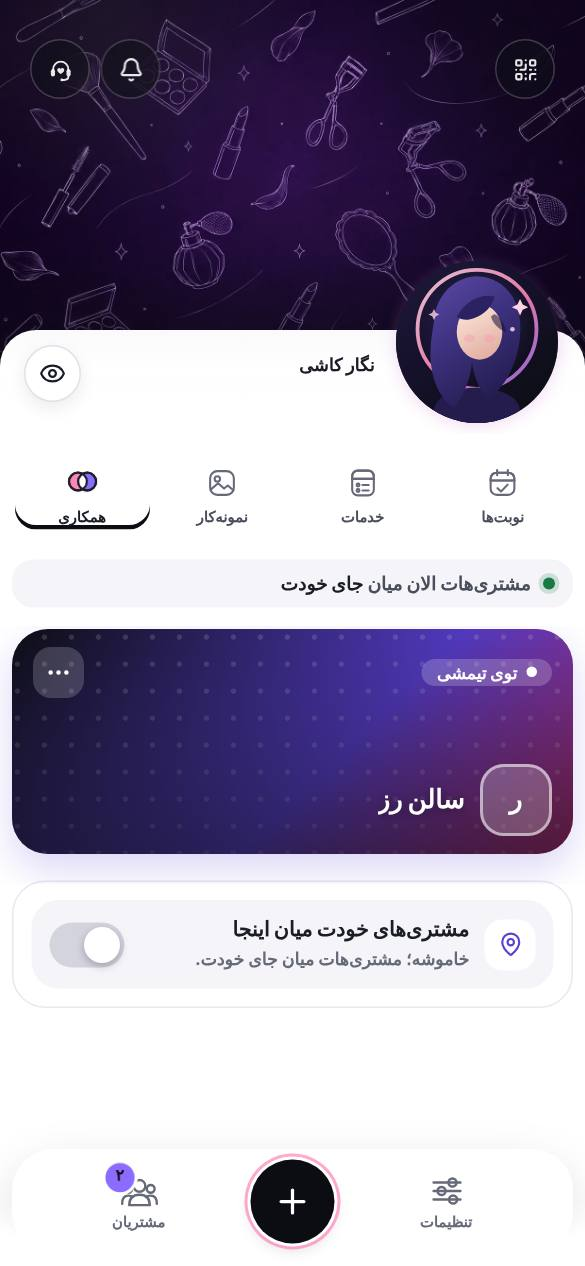
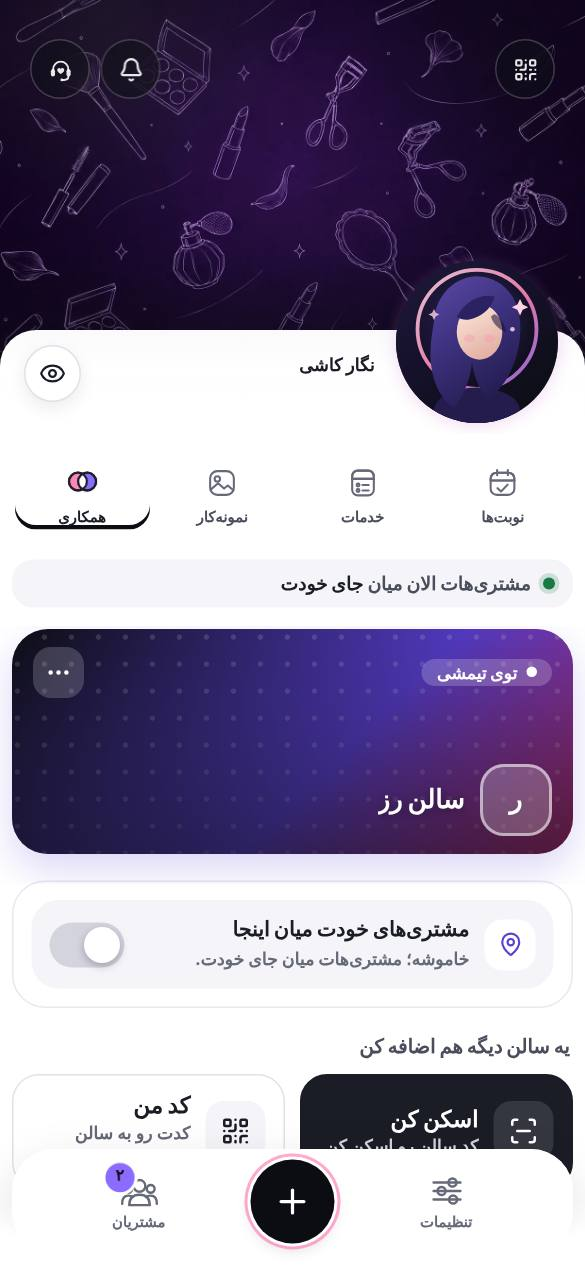
Artist collab tab: keep scan/code under the salon cards to add another salon
Once an artist joined a salon, the scan and my-code buttons disappeared, so
there was no way to add a second salon from the tab. They now stay under the
cards, titled «یه سالن دیگه هم اضافه کن». The code sheet closes when a new
invite or team arrives (counted), not whenever any team exists. Also defines
the connect colour variables for this board, so the dark scan button shows.

Claude-Session: https://claude.ai/code/session_01CZ7upFQ2cL2qc1M85qvN3D

diff --git a/app/features/artist/ArtistCollabBoard.jsx b/app/features/artist/ArtistCollabBoard.jsx
@@ -195,8 +195,9 @@ function SwitchSheet({ target, ask, busy, onSave, onClose }) {
 /**
  * Artist owner — collaboration tab (owner's choice of 2026-10-25: wallet cards). The salons the artist is on the team
  * of and the salons inviting them are cards in one row the artist swipes; under the row, the card in view: its terms,
- * «مشتریهای خودت میان اینجا» (the artist's one workplace at a time) and its rules. No team and no invite: only
- * «اسکن کن» and «کد من».
+ * «مشتریهای خودت میان اینجا» (the artist's one workplace at a time) and its rules. «اسکن کن» and «کد من» stay
+ * under the cards (titled «یه سالن دیگه هم اضافه کن» once on a team), so a second salon can be added; no team and no
+ * invite: only those two.
  */
 export function ArtistCollabBoard({
   artistId,
@@ -233,11 +234,14 @@ export function ArtistCollabBoard({
   useEffect(() => { if (connected) loadWorkplace(); }, [connected, teamKey, loadWorkplace]);
 
   // While the code is on screen, check for the salon's invite so it shows up as soon as they scan; close the code
-  // once it (or a team) arrives.
-  usePolling(() => onChanged?.(), 5000, sheet === "code" && !connected);
+  // once a new invite (or a new team) arrives. Counts, not "any", so an artist already on a team can show it too.
+  usePolling(() => onChanged?.(), 5000, sheet === "code");
+  const arrivals = teams.length + pendingInvites.length;
+  const lastArrivals = useRef(arrivals);
   useEffect(() => {
-    if (connected || pendingInvites.length) setSheet("");
-  }, [connected, pendingInvites.length]);
+    if (arrivals > lastArrivals.current) setSheet("");
+    lastArrivals.current = arrivals;
+  }, [arrivals]);
 
   const cards = [
     ...pendingInvites.map((invite) => ({
@@ -435,21 +439,18 @@ export function ArtistCollabBoard({
         </>
       ) : null}
 
-      {!connected ? (
-        <>
-          <div className="cnScanRow">
-            <button type="button" className="cnScanBtn is-dark" onClick={() => setSheet("scan")}>
-              <span aria-hidden="true"><ScanLine size={20} /></span>
-              <span><b>اسکن کن</b><small>کد سالن رو اسکن کن</small></span>
-            </button>
-            <button type="button" className="cnScanBtn" disabled={!codeUrl} onClick={() => setSheet("code")}>
-              <span aria-hidden="true"><QrCode size={20} /></span>
-              <span><b>کد من</b><small>کدت رو به سالن نشون بده</small></span>
-            </button>
-          </div>
-          {!cards.length ? <Mascot pose="team" size={190} className="clConnMascot" /> : null}
-        </>
-      ) : null}
+      {connected ? <p className="clwAddLead">یه سالن دیگه هم اضافه کن</p> : null}
+      <div className="cnScanRow">
+        <button type="button" className="cnScanBtn is-dark" onClick={() => setSheet("scan")}>
+          <span aria-hidden="true"><ScanLine size={20} /></span>
+          <span><b>اسکن کن</b><small>کد سالن رو اسکن کن</small></span>
+        </button>
+        <button type="button" className="cnScanBtn" disabled={!codeUrl} onClick={() => setSheet("code")}>
+          <span aria-hidden="true"><QrCode size={20} /></span>
+          <span><b>کد من</b><small>کدت رو به سالن نشون بده</small></span>
+        </button>
+      </div>
+      {!cards.length ? <Mascot pose="team" size={190} className="clConnMascot" /> : null}
 
       <SwitchSheet target={switchTo} ask={Boolean(switchTo?.ask)} busy={saving} onSave={saveSwitch} onClose={() => setSwitchTo(null)} />
 

diff --git a/app/styles/features/place.css b/app/styles/features/place.css
@@ -153,3 +153,4 @@
 .clwMove small { color: var(--n-600); font-size: 0.72rem; font-weight: 750; }
 .clwMove .plSwitch[aria-checked="true"] { background: var(--violet-deep); }
 @media (prefers-reduced-motion: reduce) { .clwCard, .clwDots button::before { transition: none; } }
+.clwAddLead { margin: 6px 2px -2px; color: var(--n-700); font-size: 0.82rem; font-weight: 900; }

diff --git a/app/styles/features/connect.css b/app/styles/features/connect.css
@@ -27,7 +27,8 @@
 .qrScanner,
 .cnCodeSheet,
 .cnSheetRoot,
-.clConnBoard {
+.clConnBoard,
+.clwBoard {
   --cn-ink: var(--n-900);
   --cn-muted: var(--n-600);
   --cn-line: var(--n-150);

diff --git a/docs/DECISIONS.md b/docs/DECISIONS.md
@@ -80,3 +80,4 @@ One line each, dated. Claude reads this before asking questions.
 - 2026-10-25: The app keeps saying plainly whether a number has an account (at login and sign-up); the per-number and per-address limits on tries and SMS stay what stops anyone from testing numbers in bulk.
 - 2026-10-25: Sign-up always needs the SMS code whenever SMS works (owner: otherwise anyone can sign up with a number that isn't theirs); the separate switch FRFRO_OTP_REQUIRED=1 is gone, only test setups turn it off with FRFRO_OTP_REQUIRED=0. Accounts made earlier without a code keep working, but bookings a salon made under that number are not tied to them until they prove the number with a code.
 - 2026-10-26: «وقتش شده» confirmation moves off the home page into the services page (owner: start-up questions belong in their own section, not all on home): a calm card above the services list («یادآوری وقتش شده»، «هنوز خاموشه»، «روشنش کن» / «اول فاصلهها رو ببینم»), no pop-up; it replaces the 2026-10-25 pop-up decision.
+- 2026-10-26: An artist already on a salon's team can add another salon from the «همکاری» tab: «اسکن کن» and «کد من» stay under the salon cards, titled «یه سالن دیگه هم اضافه کن» (owner noticed there was no way to add a second salon). Also fixed: the dark «اسکن کن» button had no colour in that tab.
